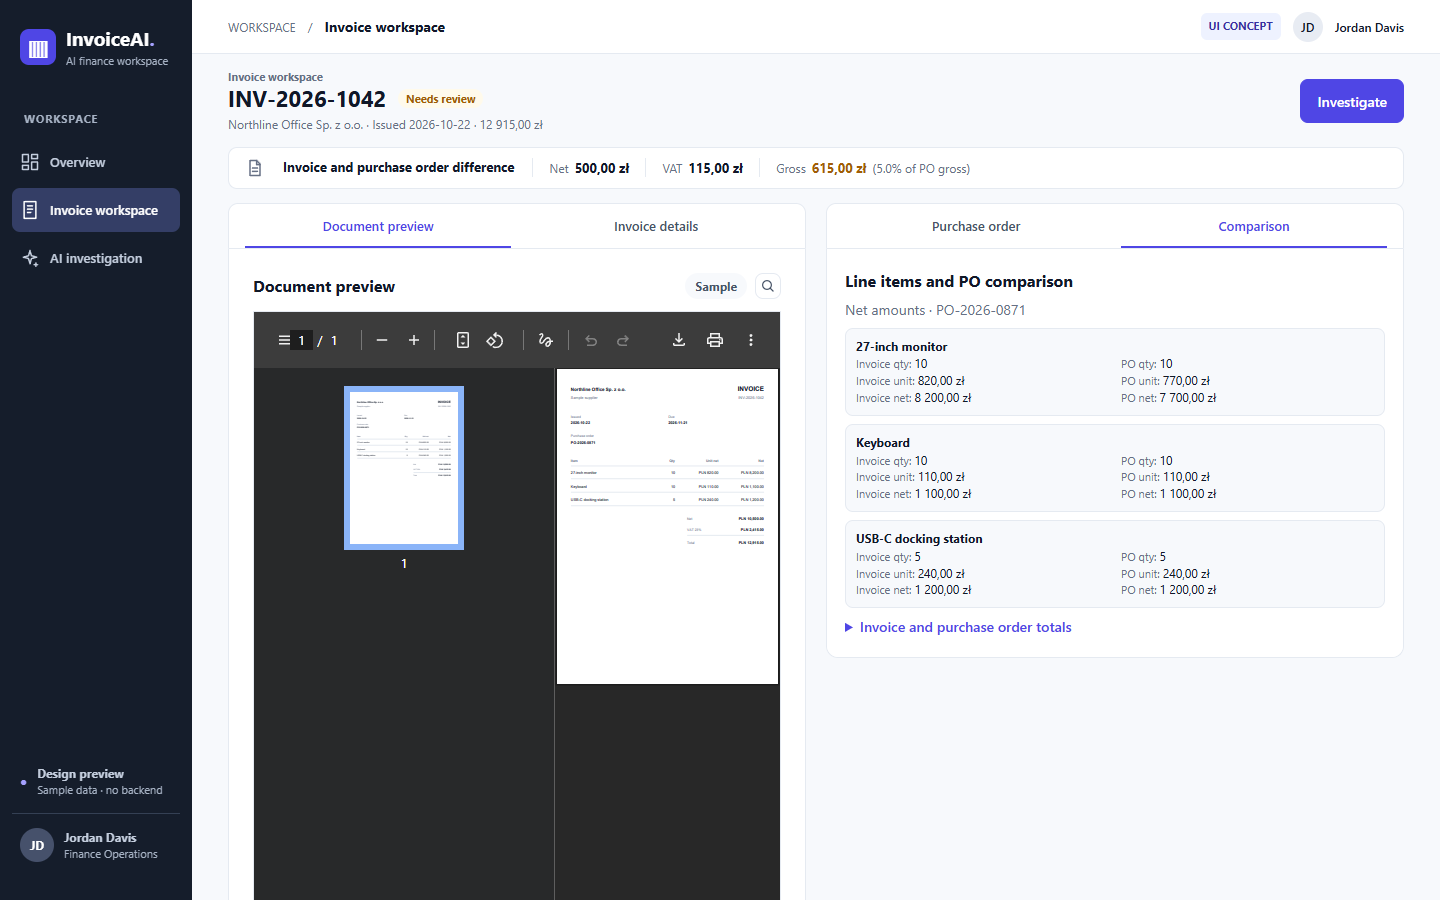
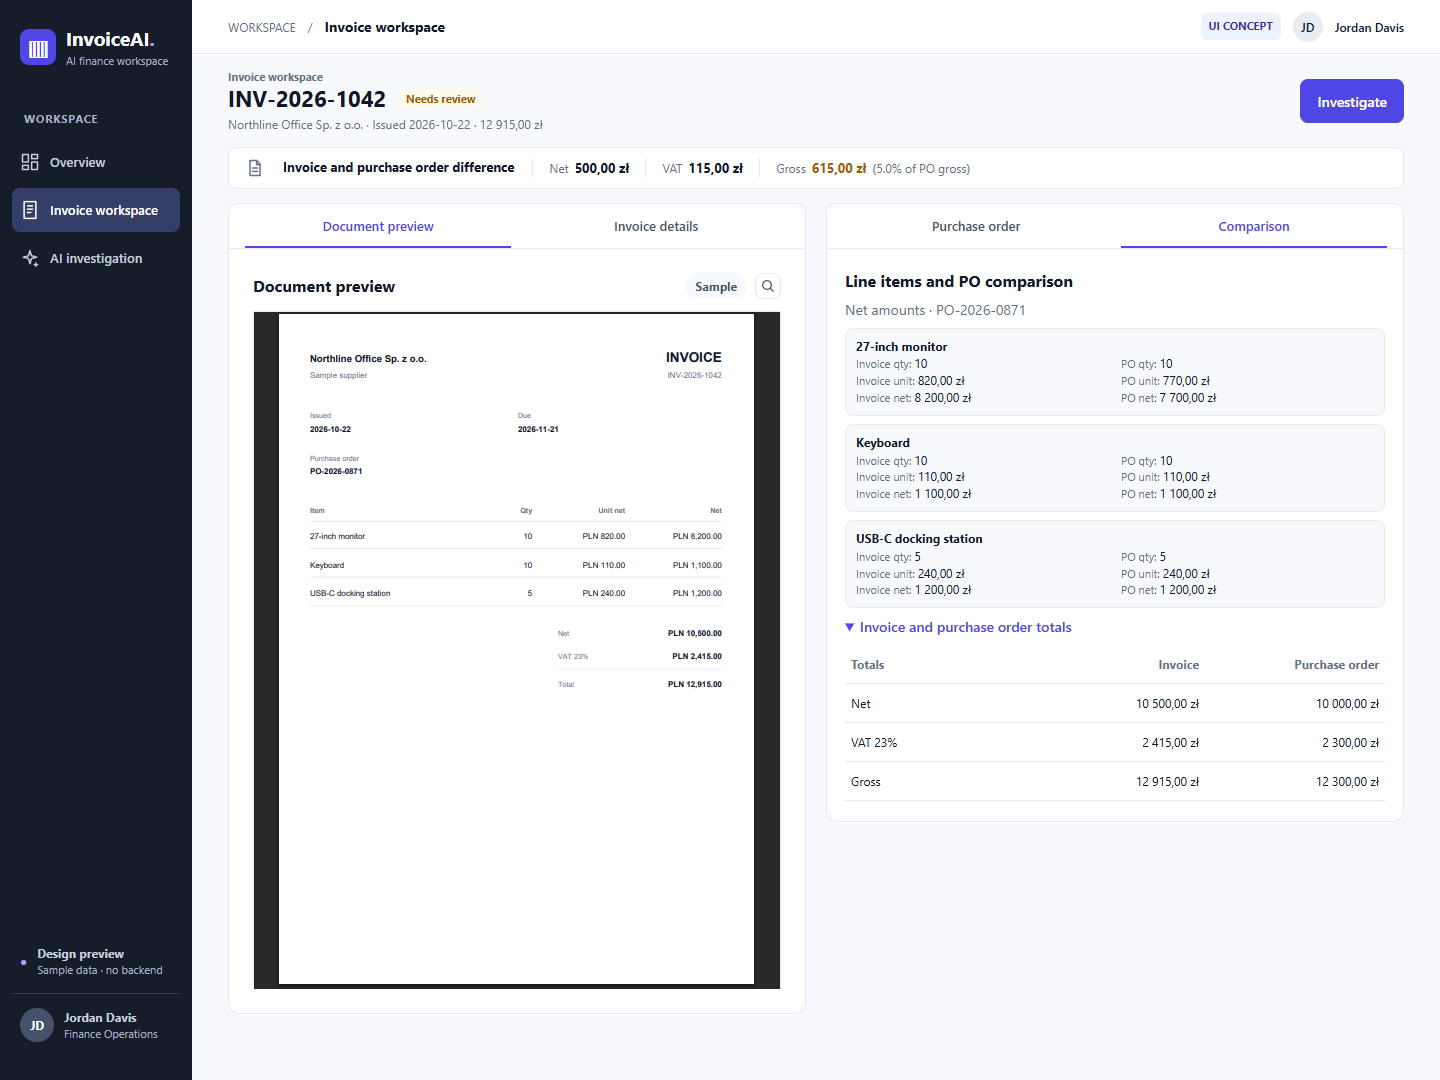
Improve invoice preview and document review walkthrough

diff --git a/apps/frontend/src/app/features/invoices/invoice-document/invoice-document.spec.ts b/apps/frontend/src/app/features/invoices/invoice-document/invoice-document.spec.ts
@@ -13,7 +13,9 @@ describe('InvoiceDocument', () => {
     const view = fixture.nativeElement as HTMLElement;
     const frame = view.querySelector('iframe');
     const link = view.querySelector('a');
-    expect(frame?.getAttribute('src')).toBe('invoices/INV-2026-1042.pdf#view=FitH');
+    expect(frame?.getAttribute('src')).toBe(
+      'invoices/INV-2026-1042.pdf#view=Fit&toolbar=0&navpanes=0',
+    );
     expect(view.textContent).not.toContain('Illustrative sample invoice');
     expect(frame?.getAttribute('title')).toContain('INV-2026-1042');
     expect(link?.getAttribute('href')).toBe('invoices/INV-2026-1042.pdf');

diff --git a/apps/frontend/src/app/features/invoices/invoice-document/invoice-document.html b/apps/frontend/src/app/features/invoices/invoice-document/invoice-document.html
@@ -30,7 +30,7 @@
     </div>
     <iframe
       class="document"
-      src="invoices/INV-2026-1042.pdf#view=FitH"
+      src="invoices/INV-2026-1042.pdf#view=Fit&toolbar=0&navpanes=0"
       title="Sample invoice INV-2026-1042 PDF preview"
     ></iframe></section
 ></app-panel>

diff --git a/README.md b/README.md
@@ -27,6 +27,7 @@ Reviewing an invoice often means switching between the source document, extracte
 - [Repository structure](#repository-structure)
 - [Run locally](#run-locally)
 - [Verify and test](#verify-and-test)
+- [Coming soon](#coming-soon)
 - [Scope and limitations](#scope-and-limitations)
 - [Further documentation](#further-documentation)
 
@@ -64,23 +65,37 @@ The Overview combines a review queue with a highlighted exception. Use **Upload 
 
 ### 2. Upload and review a document
 
-The guided intake accepts a local PDF, JPEG or PNG within the documented limits. After upload, the reviewer can extract text, request supported field suggestions, selectively apply them, correct the draft and confirm it. Digital PDF text extraction and OCR are distinct processing paths; extraction does not guarantee correct values.
+Start with **Upload invoice** and choose a fictional PDF, JPEG or PNG (up to 10 MiB). The application validates the upload and opens a persistent draft. Its four-step indicator makes the workflow visible without replacing human review.
 
-![Guided invoice upload with the four intake steps](docs/media/readme/intake.png)
+![Guided invoice upload with four intake steps](docs/media/readme/intake.png)
 
-*The upload screen explains the sequence: upload, review fields, review line items and confirm. Suggestions require human inspection before confirmation.*
+**Review fields.** Use **Extract text** to read the document. Open **Review extraction suggestions** and run the local suggestion parser; inspect the proposed value and source, then apply or reject selected suggestions. Edit the supplier, invoice number, dates, currency and VAT rate directly. **Save draft** stores the current edits; **Continue** moves to the line items. The preview can be zoomed, and **Open original** opens the uploaded document separately.
+
+![Review fields alongside the document preview](docs/media/readme/review-fields.png)
+
+**Review line items.** Check the description, quantity, unit net, tax and calculated net amount for each row. Add or remove rows, edit declared net/VAT/gross totals and return to the previous step if necessary. The line items and declared totals must be checked against the source document.
+
+![Line item editor and declared totals](docs/media/readme/review-items.png)
+
+**Confirm.** The review summary brings invoice details, line items, totals and draft validation together. **Edit** returns to the relevant section; **Save draft** retains changes; **Confirm invoice** creates an invoice for review. Confirmation is a human action and does not approve a payment. The screenshot below shows the review screen before confirmation.
+
+![Review summary with invoice details, line items and confirmation action](docs/media/readme/confirm.png)
+
+Digital PDF text extraction and OCR are distinct processing paths. Suggestions are assistive and can be wrong or incomplete. The screenshots use a fictional local invoice and the deterministic demo parser.
 
 ### 3. Review invoice and purchase order
 
-The workspace brings the source preview, invoice details and purchase-order workflow together. A reviewer can select or create a fictional PO, map its lines, run reconciliation and open the comparison. A missing PO remains an explicit state rather than a fabricated match.
+The invoice workspace keeps the source document, recorded fields and comparison in one place. The sample PDF appears as a **single full page** inside the preview. Use the magnifying-glass action to open the original in a separate tab, **Invoice details** to inspect recorded fields, and **Investigate** to open the evidence and Copilot view.
 
-![Invoice workspace with source document preview and purchase-order controls](docs/media/readme/workspace.png)
+![Invoice workspace with a single-page PDF preview and purchase-order controls](docs/media/readme/workspace.png)
 
-*The sample invoice has a historical comparison; the PO panel also shows that an independent purchase order can be linked for subsequent reconciliation.*
+![Recorded invoice fields alongside the expanded purchase-order comparison](docs/media/readme/invoice-fields.png)
 
-![Invoice and purchase-order line comparison](docs/media/readme/comparison.png)
+**Purchase order.** Select an existing order or create a fictional one, map its lines to invoice lines and explicitly run reconciliation. A missing independent PO remains an **Awaiting PO** state; the sample can also have an earlier recorded comparison. Historical snapshots remain available as evidence.
 
-*The comparison shows quantities and unit prices for each line. For the sample, the invoice gross is PLN 12,915.00 versus a PO gross of PLN 12,300.00: a PLN 615.00 difference.*
+**Comparison.** Select **Comparison** to review line quantities, unit prices and net amounts side by side. Expand **Invoice and purchase order totals** to reveal the net, VAT and gross table; the summary strip shows the corresponding differences. For `INV-2026-1042`, invoice gross is PLN 12,915.00 and PO gross is PLN 12,300.00, a difference of PLN 615.00.
+
+![Line comparison and expanded invoice versus purchase-order totals table](docs/media/readme/comparison.png)
 
 ### 4. Investigate and prepare a response
 
@@ -257,6 +272,29 @@ uv run pytest tests/unit
 ```
 
 PostgreSQL integration tests require the **separate disposable database** ending in `_test`; follow the commands in [local development](docs/architecture/local-development.md#backend-tests-and-migration-checks). Tests do not require a live model call. API types can be regenerated from the running backend's OpenAPI schema with `npm run api:generate` in `apps/frontend`.
+
+## Coming soon
+
+These items are **planned or awaiting verification**. They are not a claim that a public deployment or live AI demonstration is currently available.
+
+| Area | Next step | Current status |
+| --- | --- | --- |
+| Identity and tenant isolation | Add authentication, authorization and tenant-scoped data access before public exposure. | Planned in [Task 09](tasks/backend/09-auth-and-authorization.md). |
+| Azure architecture | Prepare reviewable infrastructure as code, network and secrets design, migration runbook and cost estimates. | Planned in [Task 06](tasks/backend/06-azure-deployment.md); no resources are provisioned by this README. |
+| Cloudflare Workers AI | Verify a bounded, explicitly enabled local live-provider scenario with fictional data and document its outcome. | The provider adapter exists; the recorded walkthrough uses demo mode and the optional live smoke was not performed in the documented evaluation. |
+| AI client + MCP | Demonstrate a real compatible assistant discovering and invoking the local MCP tools, then checking its answer against returned evidence. | Planned; the Inspector walkthrough demonstrates tools without a live AI client. |
+| Remote MCP and deployment | Evaluate authenticated network transport and deployment after identity, tenant and security requirements are met. | Local stdio is the current integration. |
+
+A proposed Azure direction is shown below for discussion, not as deployed infrastructure. The final topology, identity provider, network rules and costs require review.
+
+```mermaid
+flowchart LR
+    User[Reviewer] --> UI[Azure static frontend - proposed]
+    UI --> API[Container-hosted FastAPI - proposed]
+    API --> DB[(Managed PostgreSQL - proposed)]
+    API -. optional inference .-> AI[Cloudflare Workers AI]
+    Identity[Identity and tenant authorization - prerequisite] -. protects .-> API
+```
 
 ## Scope and limitations
 
